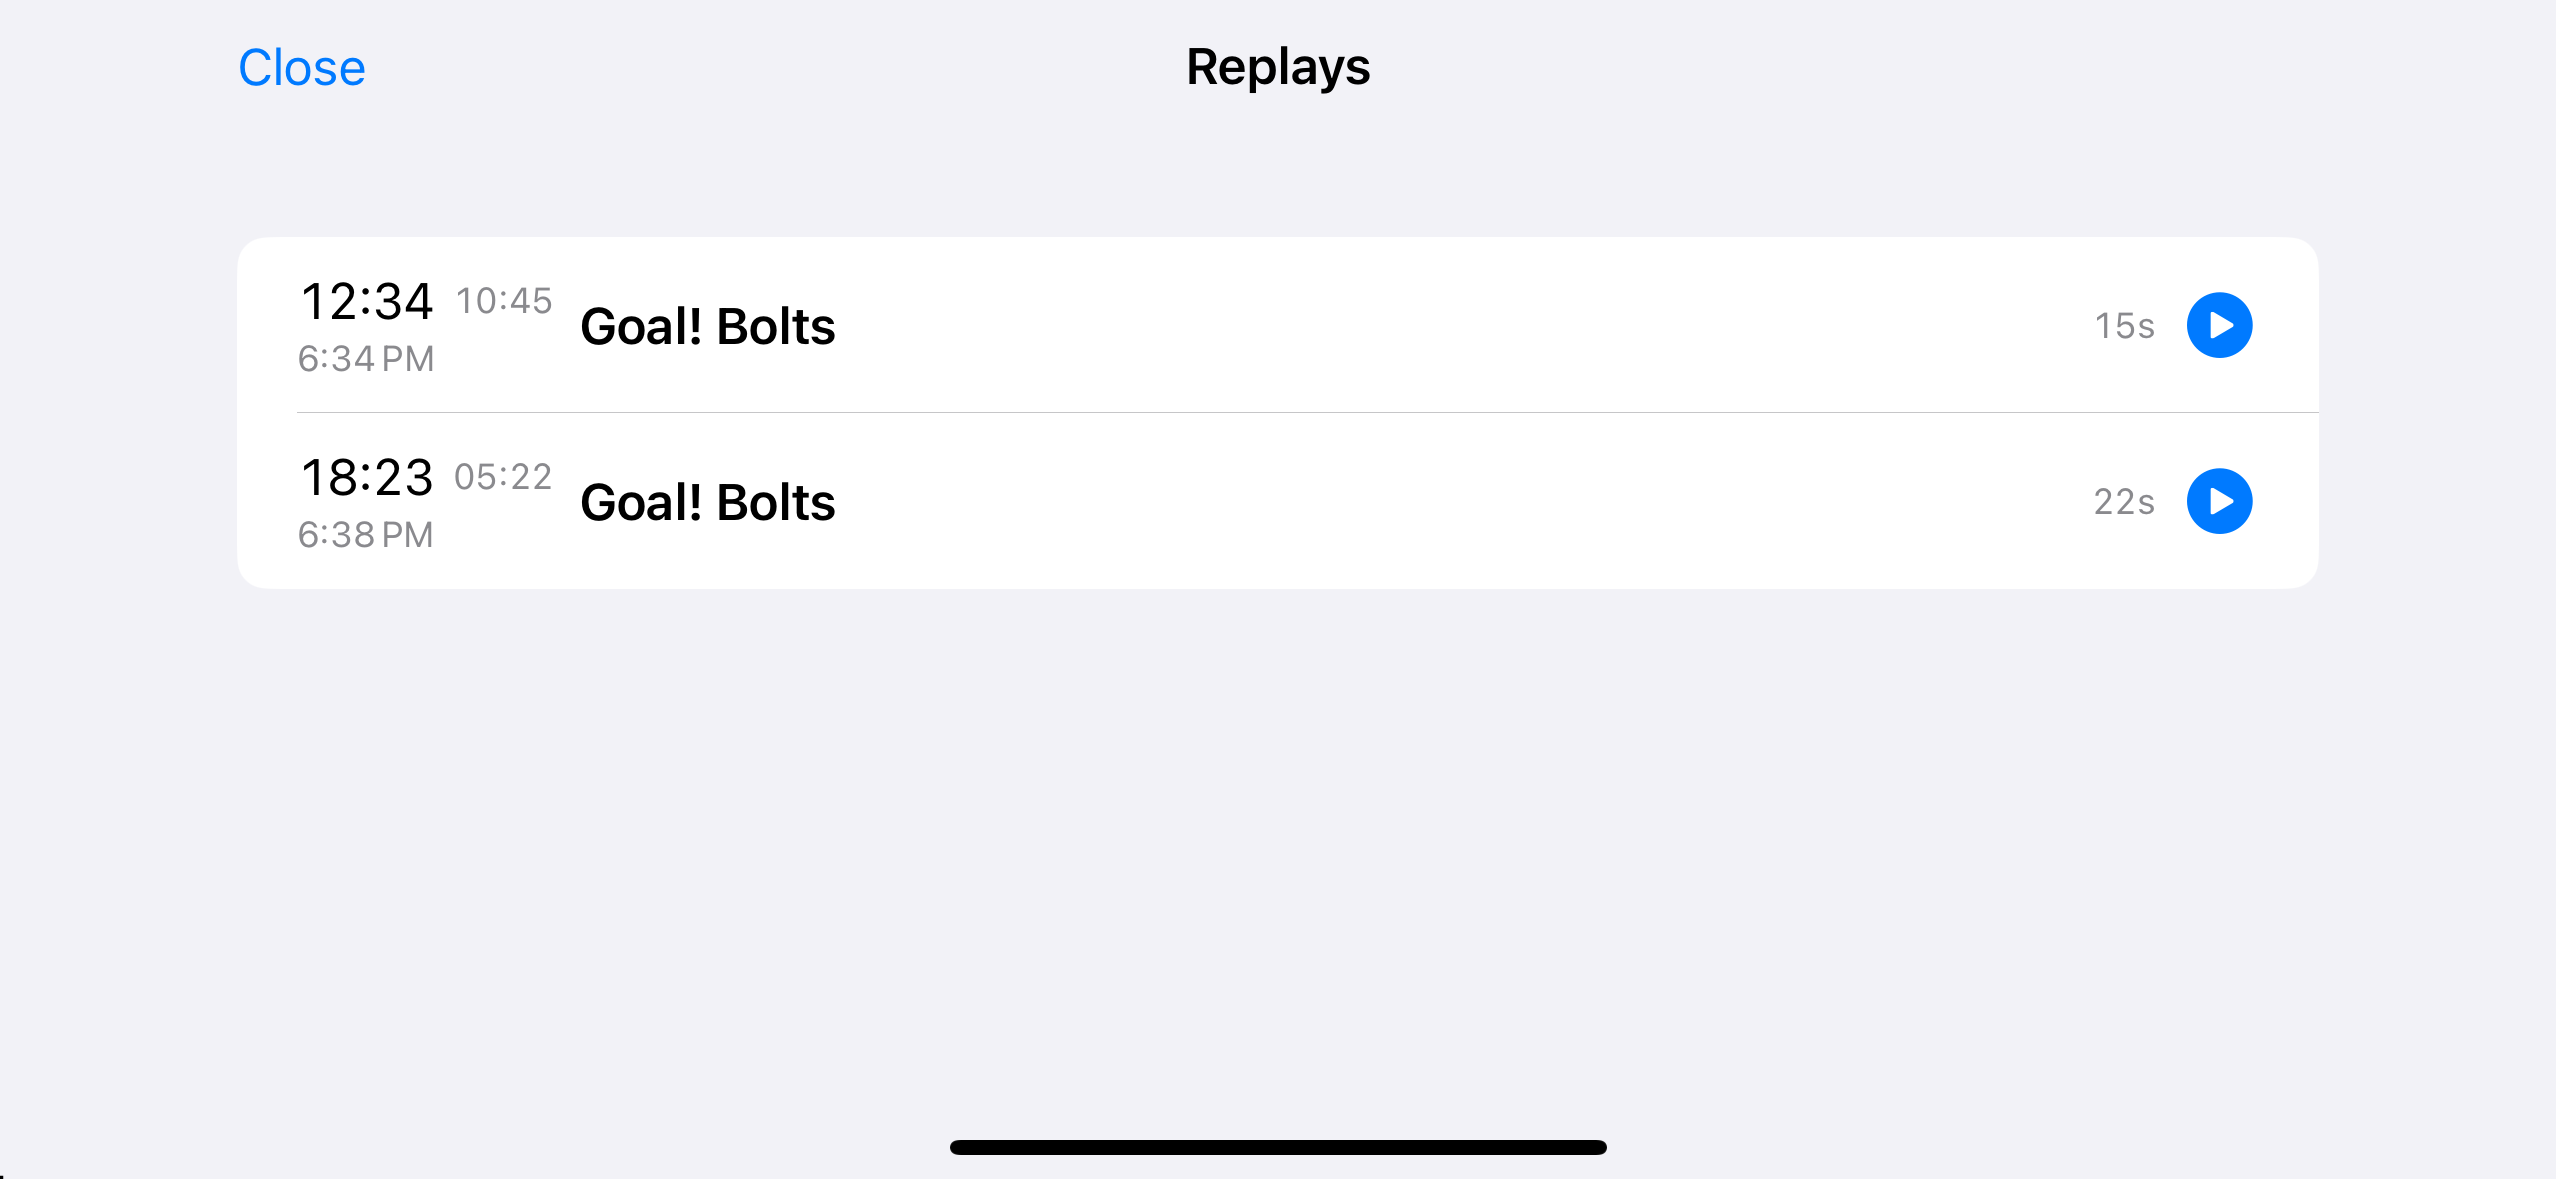
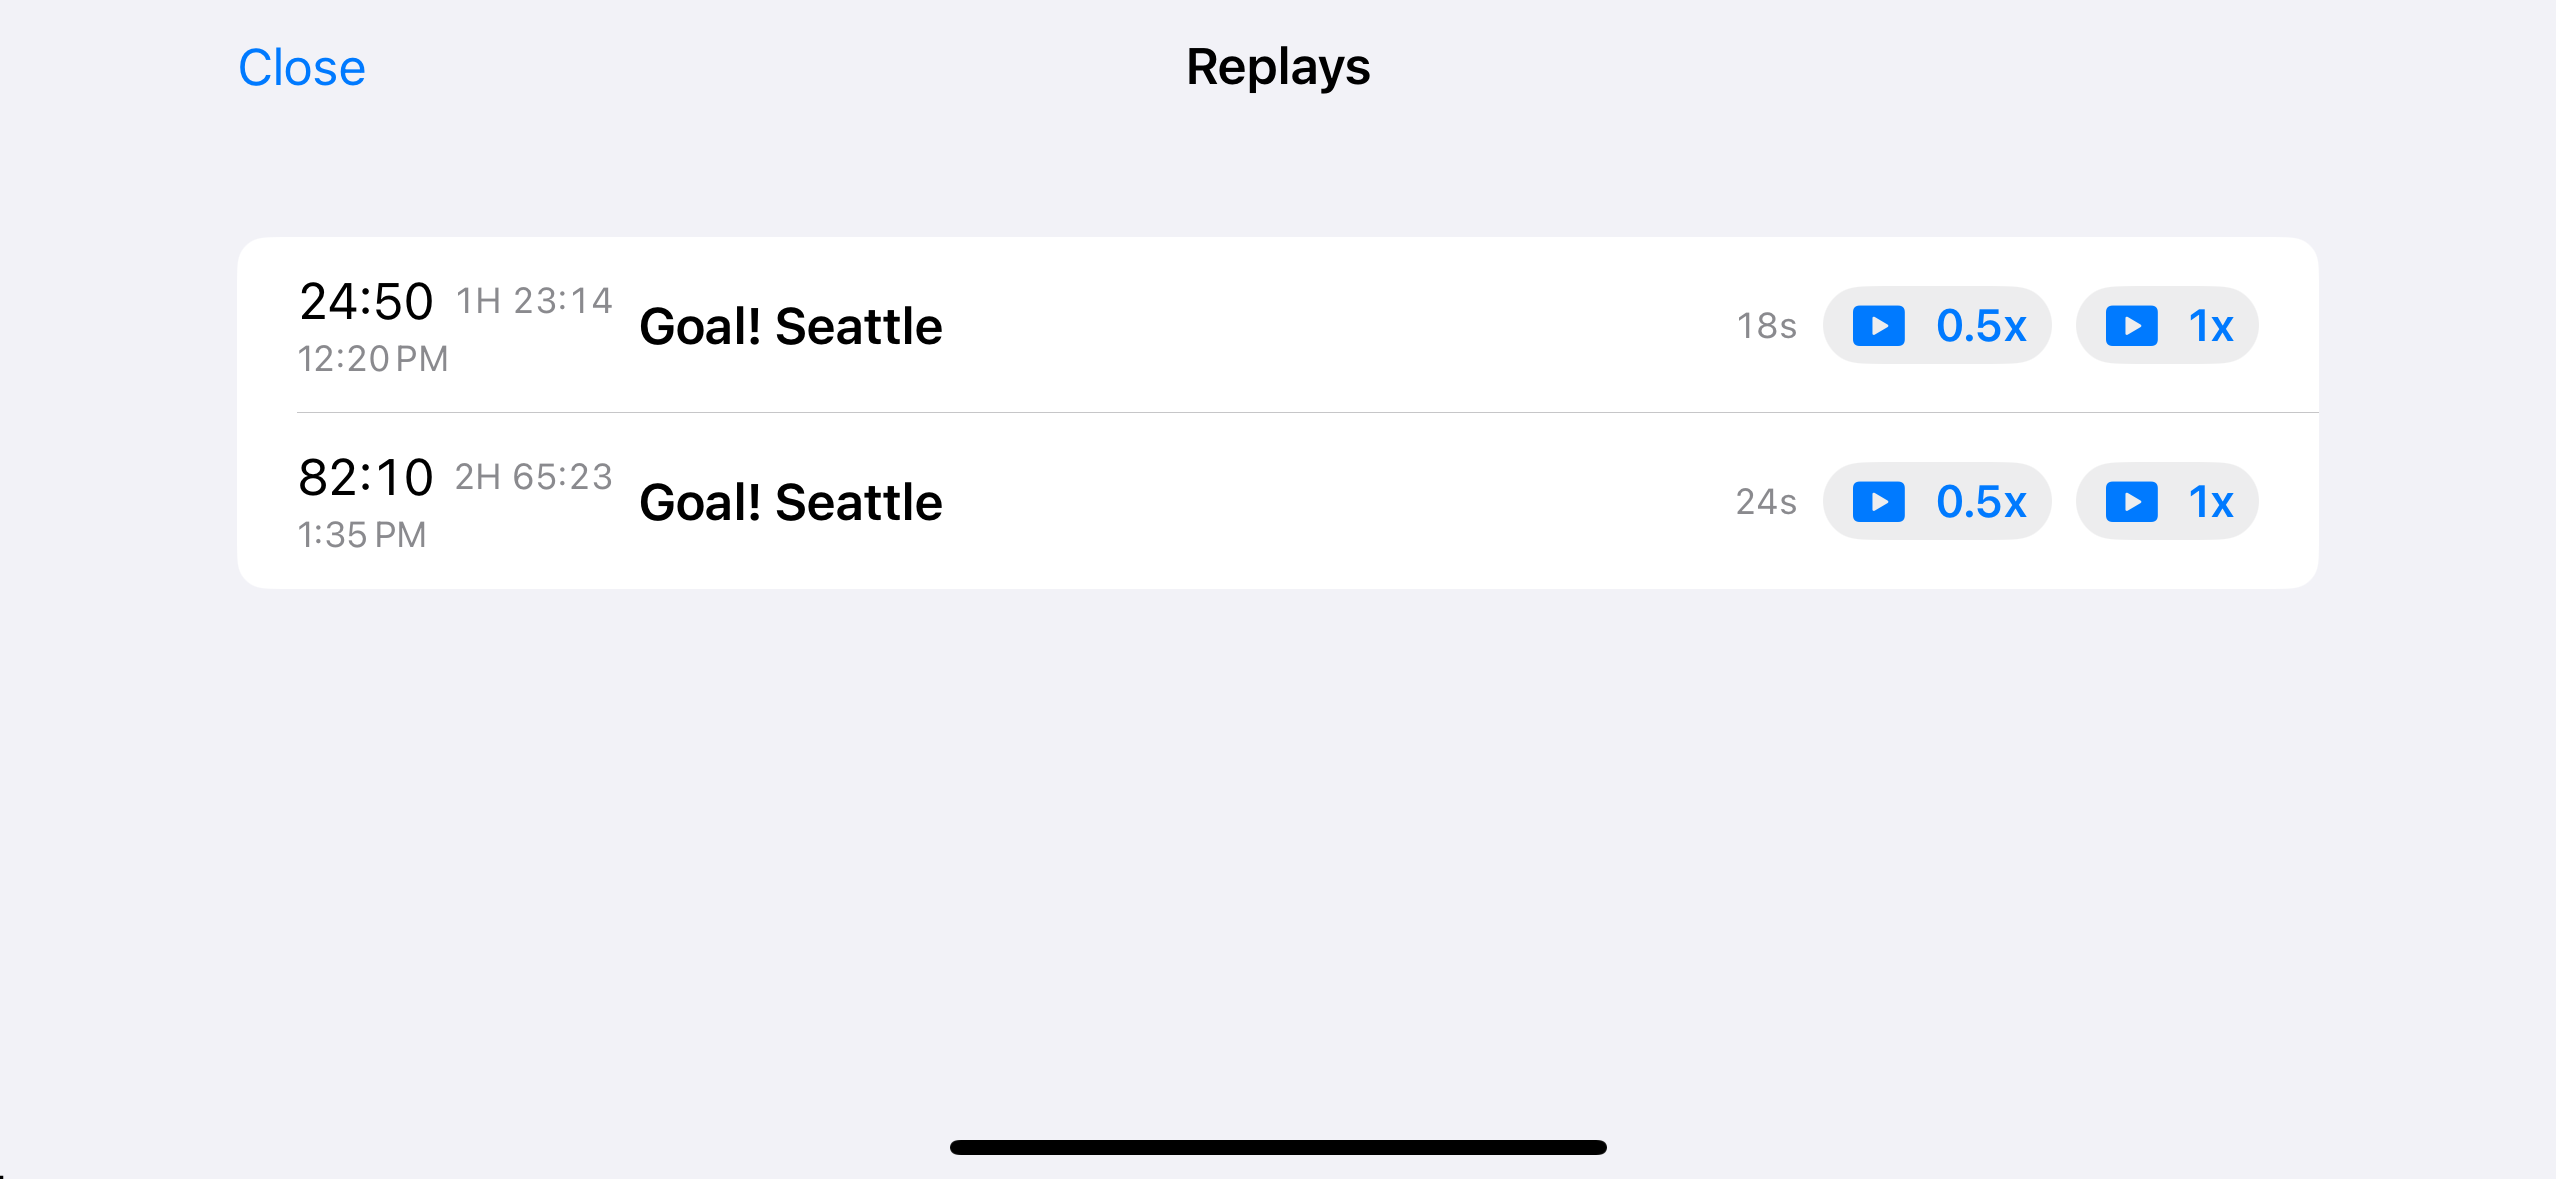
Update replay images

diff --git a/myteamlive/about.md b/myteamlive/about.md
@@ -7,7 +7,7 @@ section_name: MyTeamLive
 section_url: /myteamlive/overview
 ---
 <p style="text-align:center;">
-  <img src="/images/SoccerReplayControls.png" alt="Recording Soccer game" style="max-width:100%;height:auto;border-radius:12px;">
+  <img src="/images/SoccerReplayBrandClean.png" alt="Recording Soccer game" style="max-width:100%;height:auto;border-radius:12px;">
 </p>
 
 Livestream your games (Hockey, Soccer, and more) with a built-in scoreboard, instant replays, remote control, multiple camera support, and easy-to-use interface.
